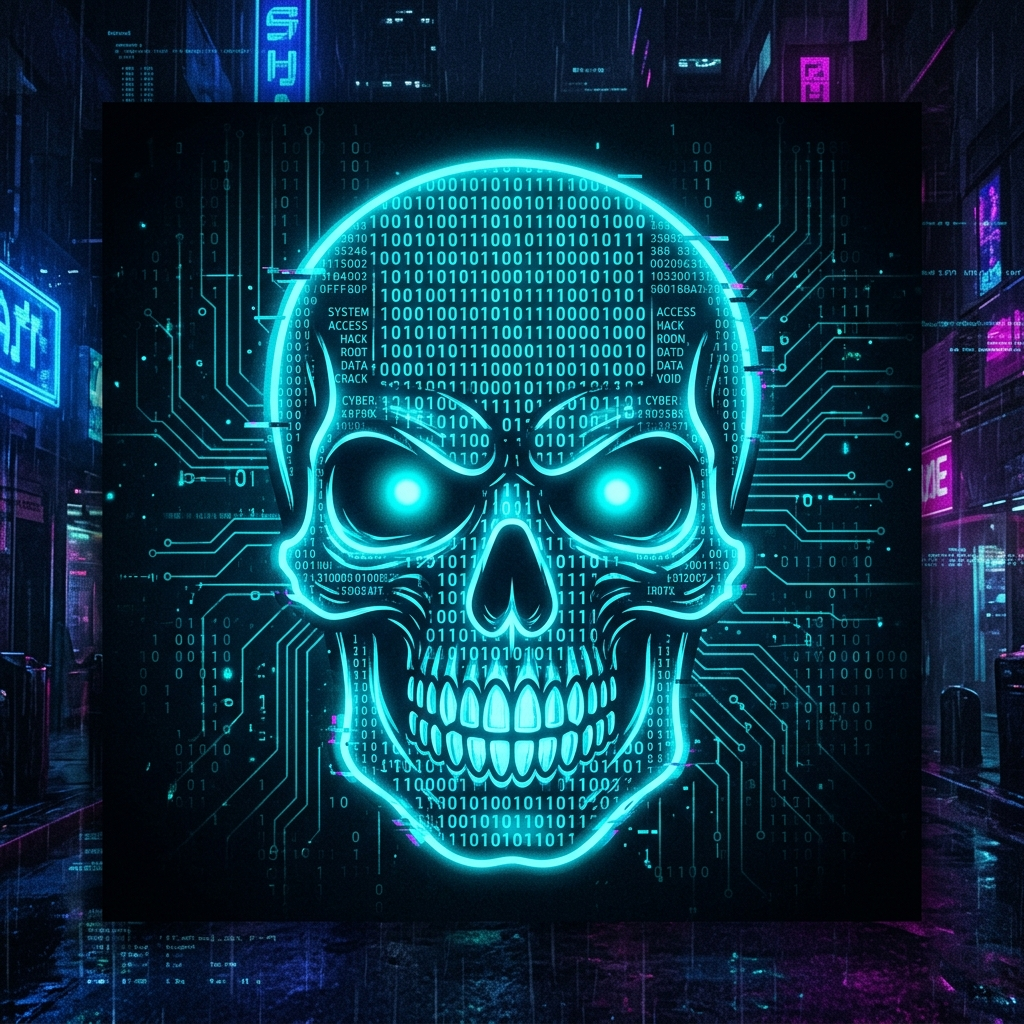
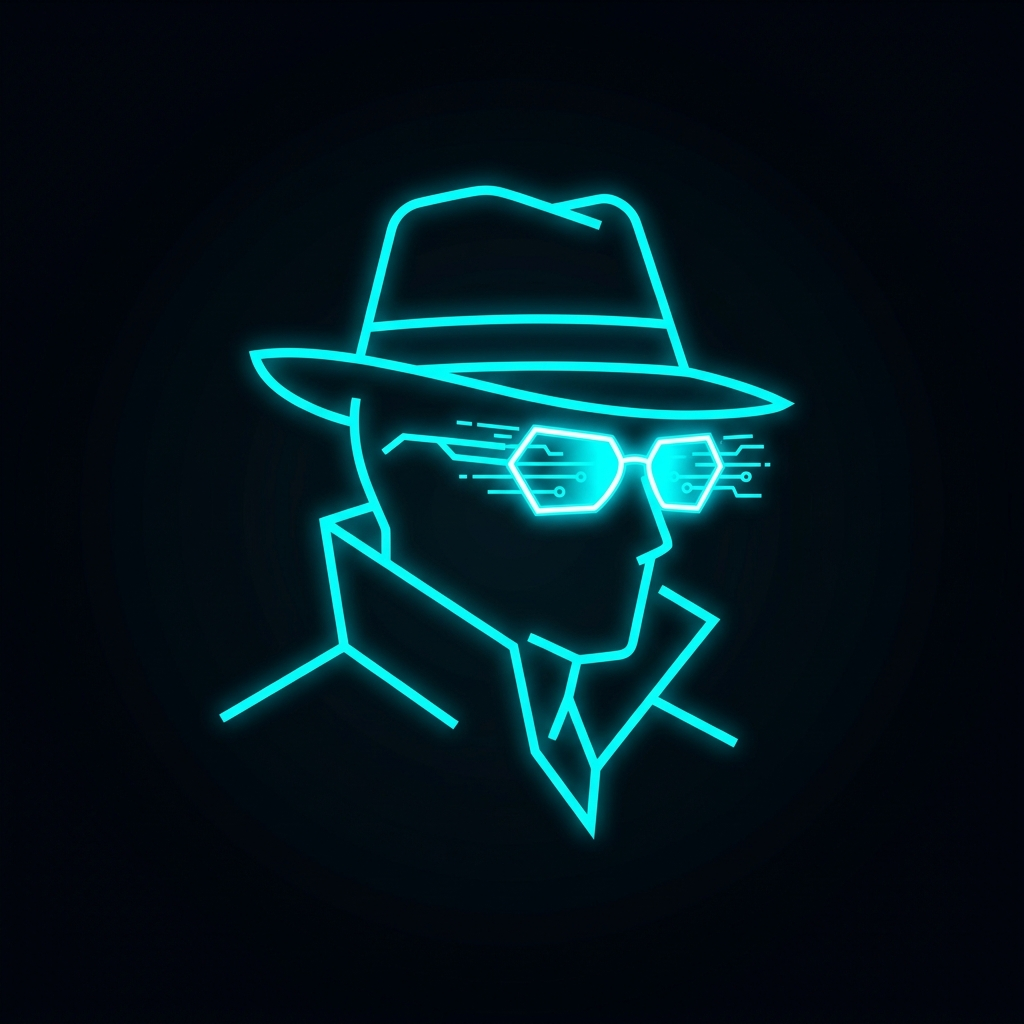
feat: 간소화된 미니멀 사이버 스파이 요원 엠블럼 마크 적용
- 악역 느낌의 스컬 대신 화이트햇 비밀 요원 감성의 미니멀 네온 스파이 심볼 마크 적용
- 엠블럼 캐시 버스터 및 라운드 프레임 네온 글로우 스타일 개선

diff --git a/app/components/SplashScreen.tsx b/app/components/SplashScreen.tsx
@@ -409,23 +409,26 @@ export default function SplashScreen({ onComplete }: SplashScreenProps) {
             style={{
               width: '118px',
               height: '118px',
-              borderRadius: '20px',
+              borderRadius: '24px',
               overflow: 'hidden',
-              border: '2px solid rgba(0, 240, 255, 0.7)',
-              boxShadow: '0 0 25px rgba(0, 240, 255, 0.45), inset 0 0 15px rgba(0, 240, 255, 0.2)',
-              background: '#000',
+              border: '2px solid rgba(0, 240, 255, 0.75)',
+              boxShadow: '0 0 28px rgba(0, 240, 255, 0.5), inset 0 0 16px rgba(0, 240, 255, 0.25)',
+              background: '#04060b',
               position: 'relative',
+              display: 'flex',
+              alignItems: 'center',
+              justifyContent: 'center',
             }}
           >
             {/* eslint-disable-next-line @next/next/no-img-element */}
             <img
-              src="/shadow-breach-emblem.jpg"
-              alt="Shadow Breach Emblem"
+              src="/shadow-breach-emblem.jpg?v=2"
+              alt="Shadow Breach Agent Emblem"
               style={{
                 width: '100%',
                 height: '100%',
                 objectFit: 'cover',
-                filter: 'contrast(1.1) brightness(1.05)',
+                filter: 'contrast(1.15) brightness(1.1)',
               }}
             />
           </div>
